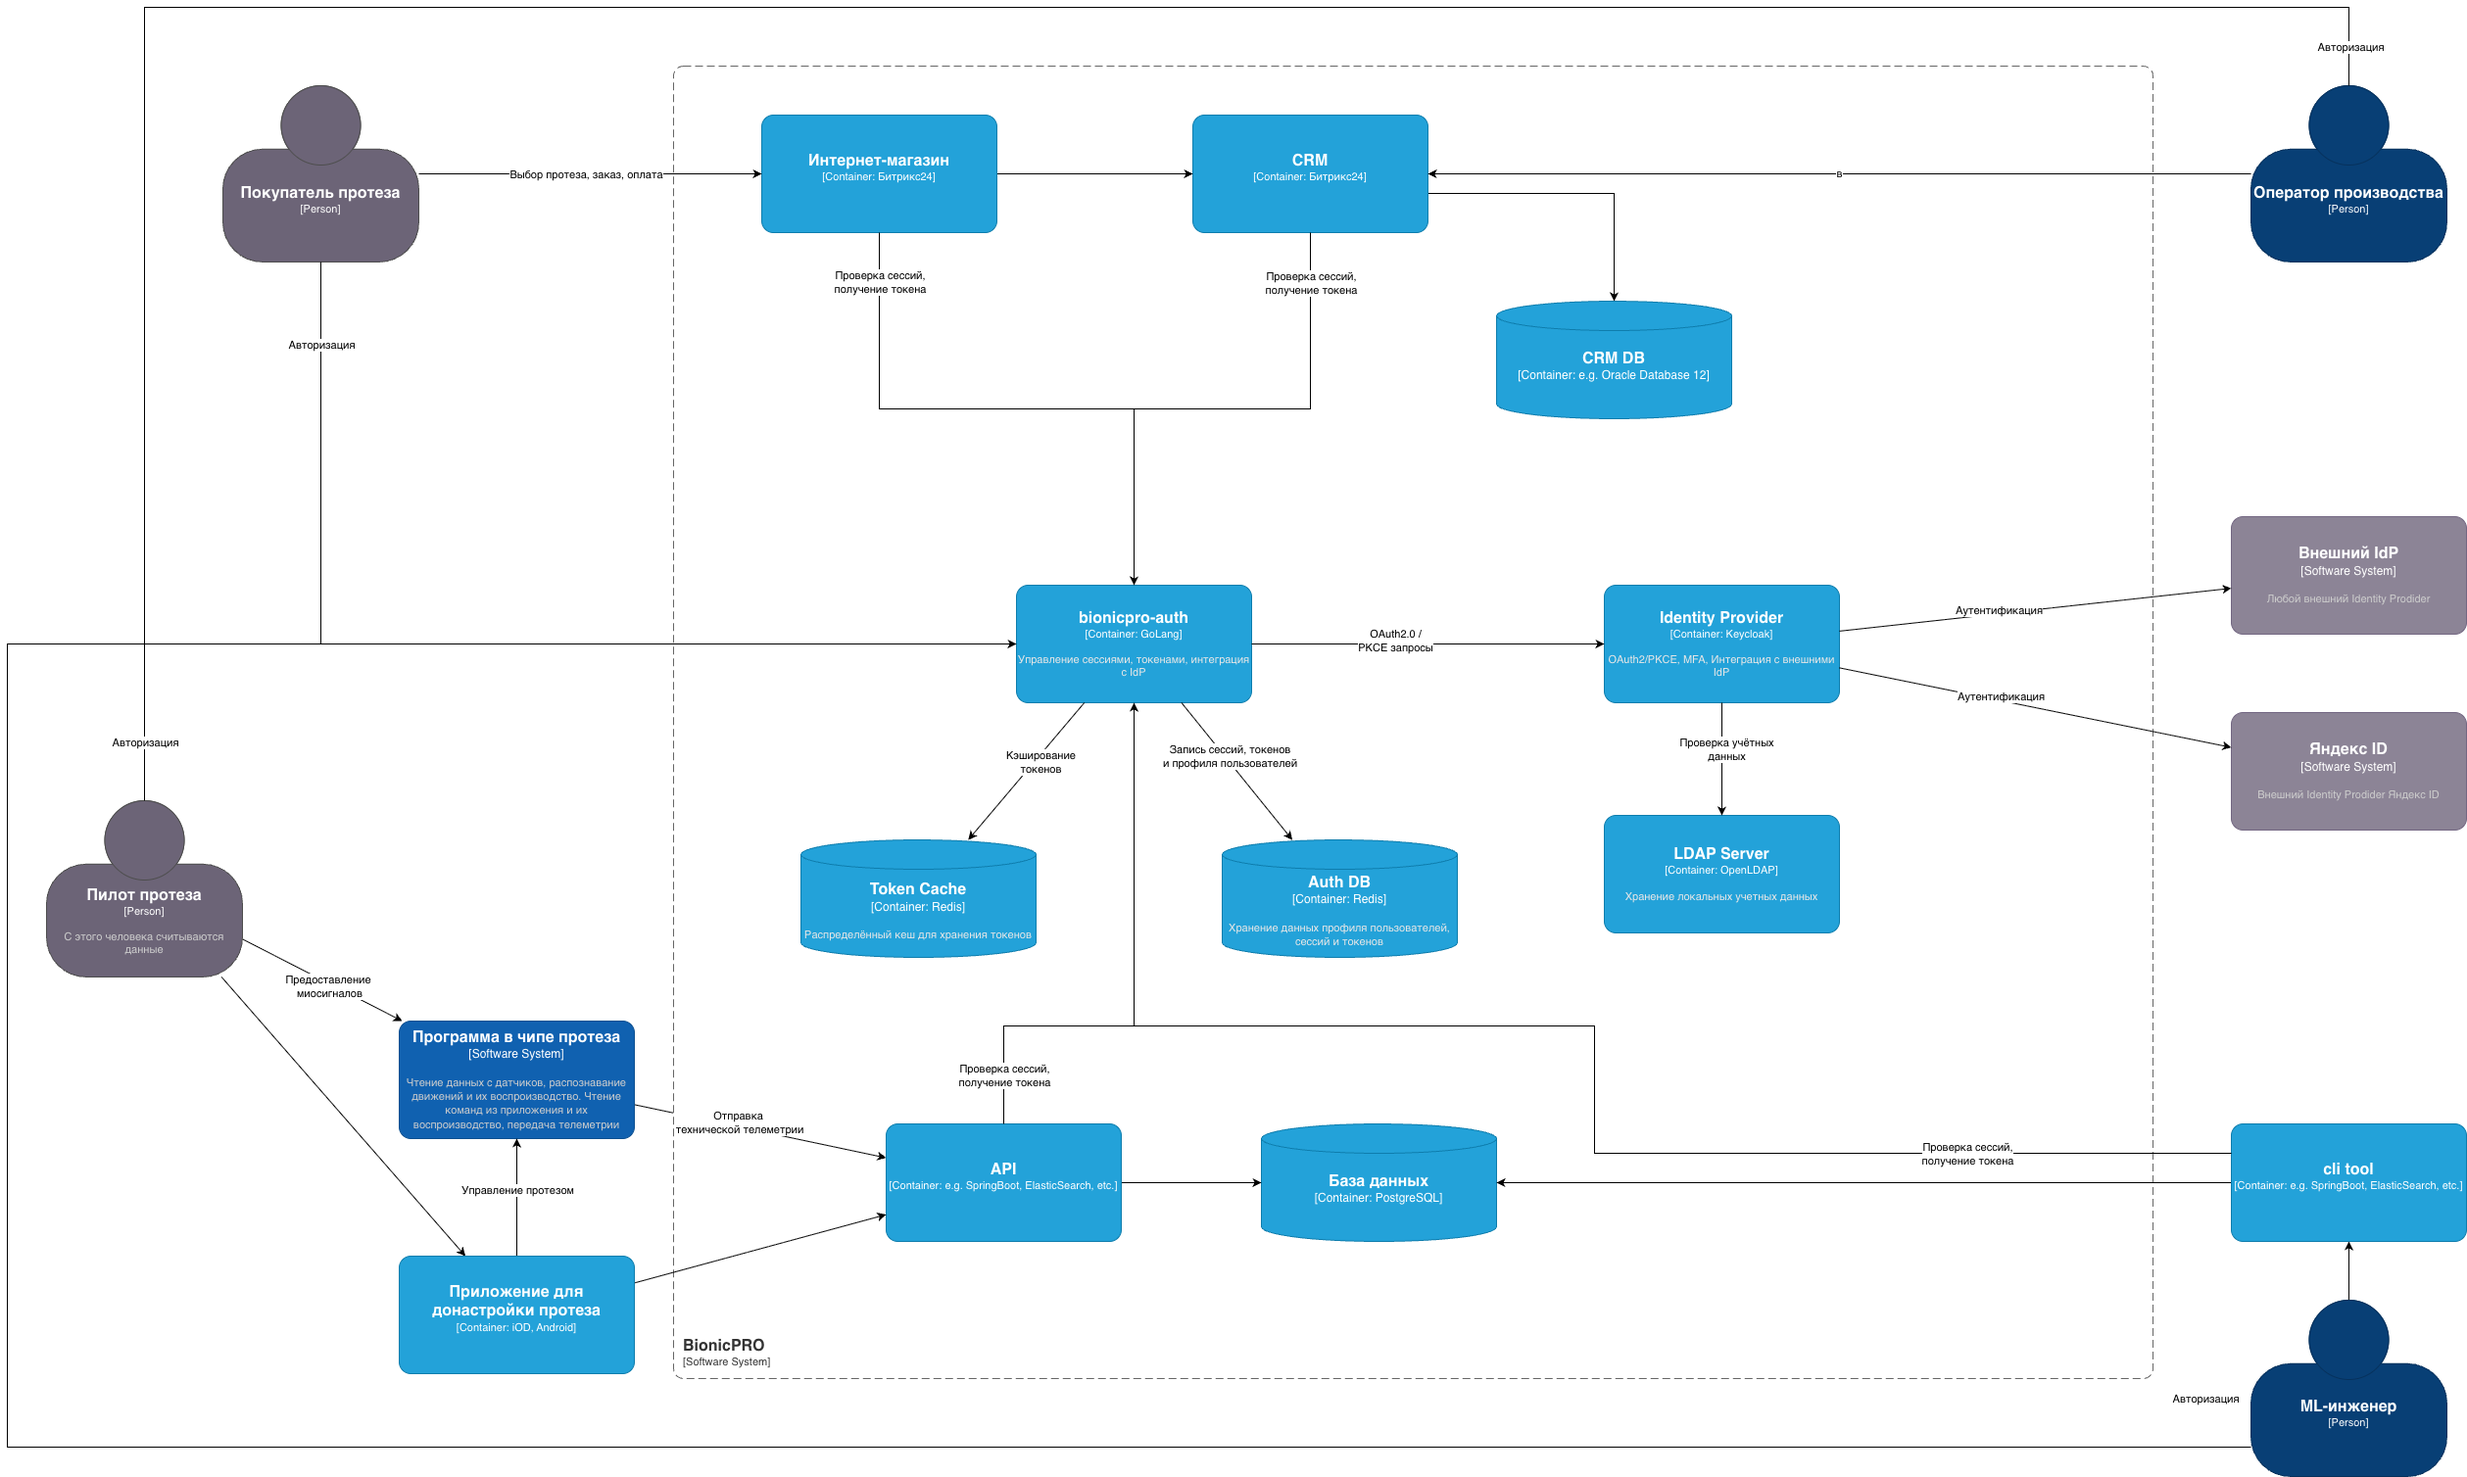
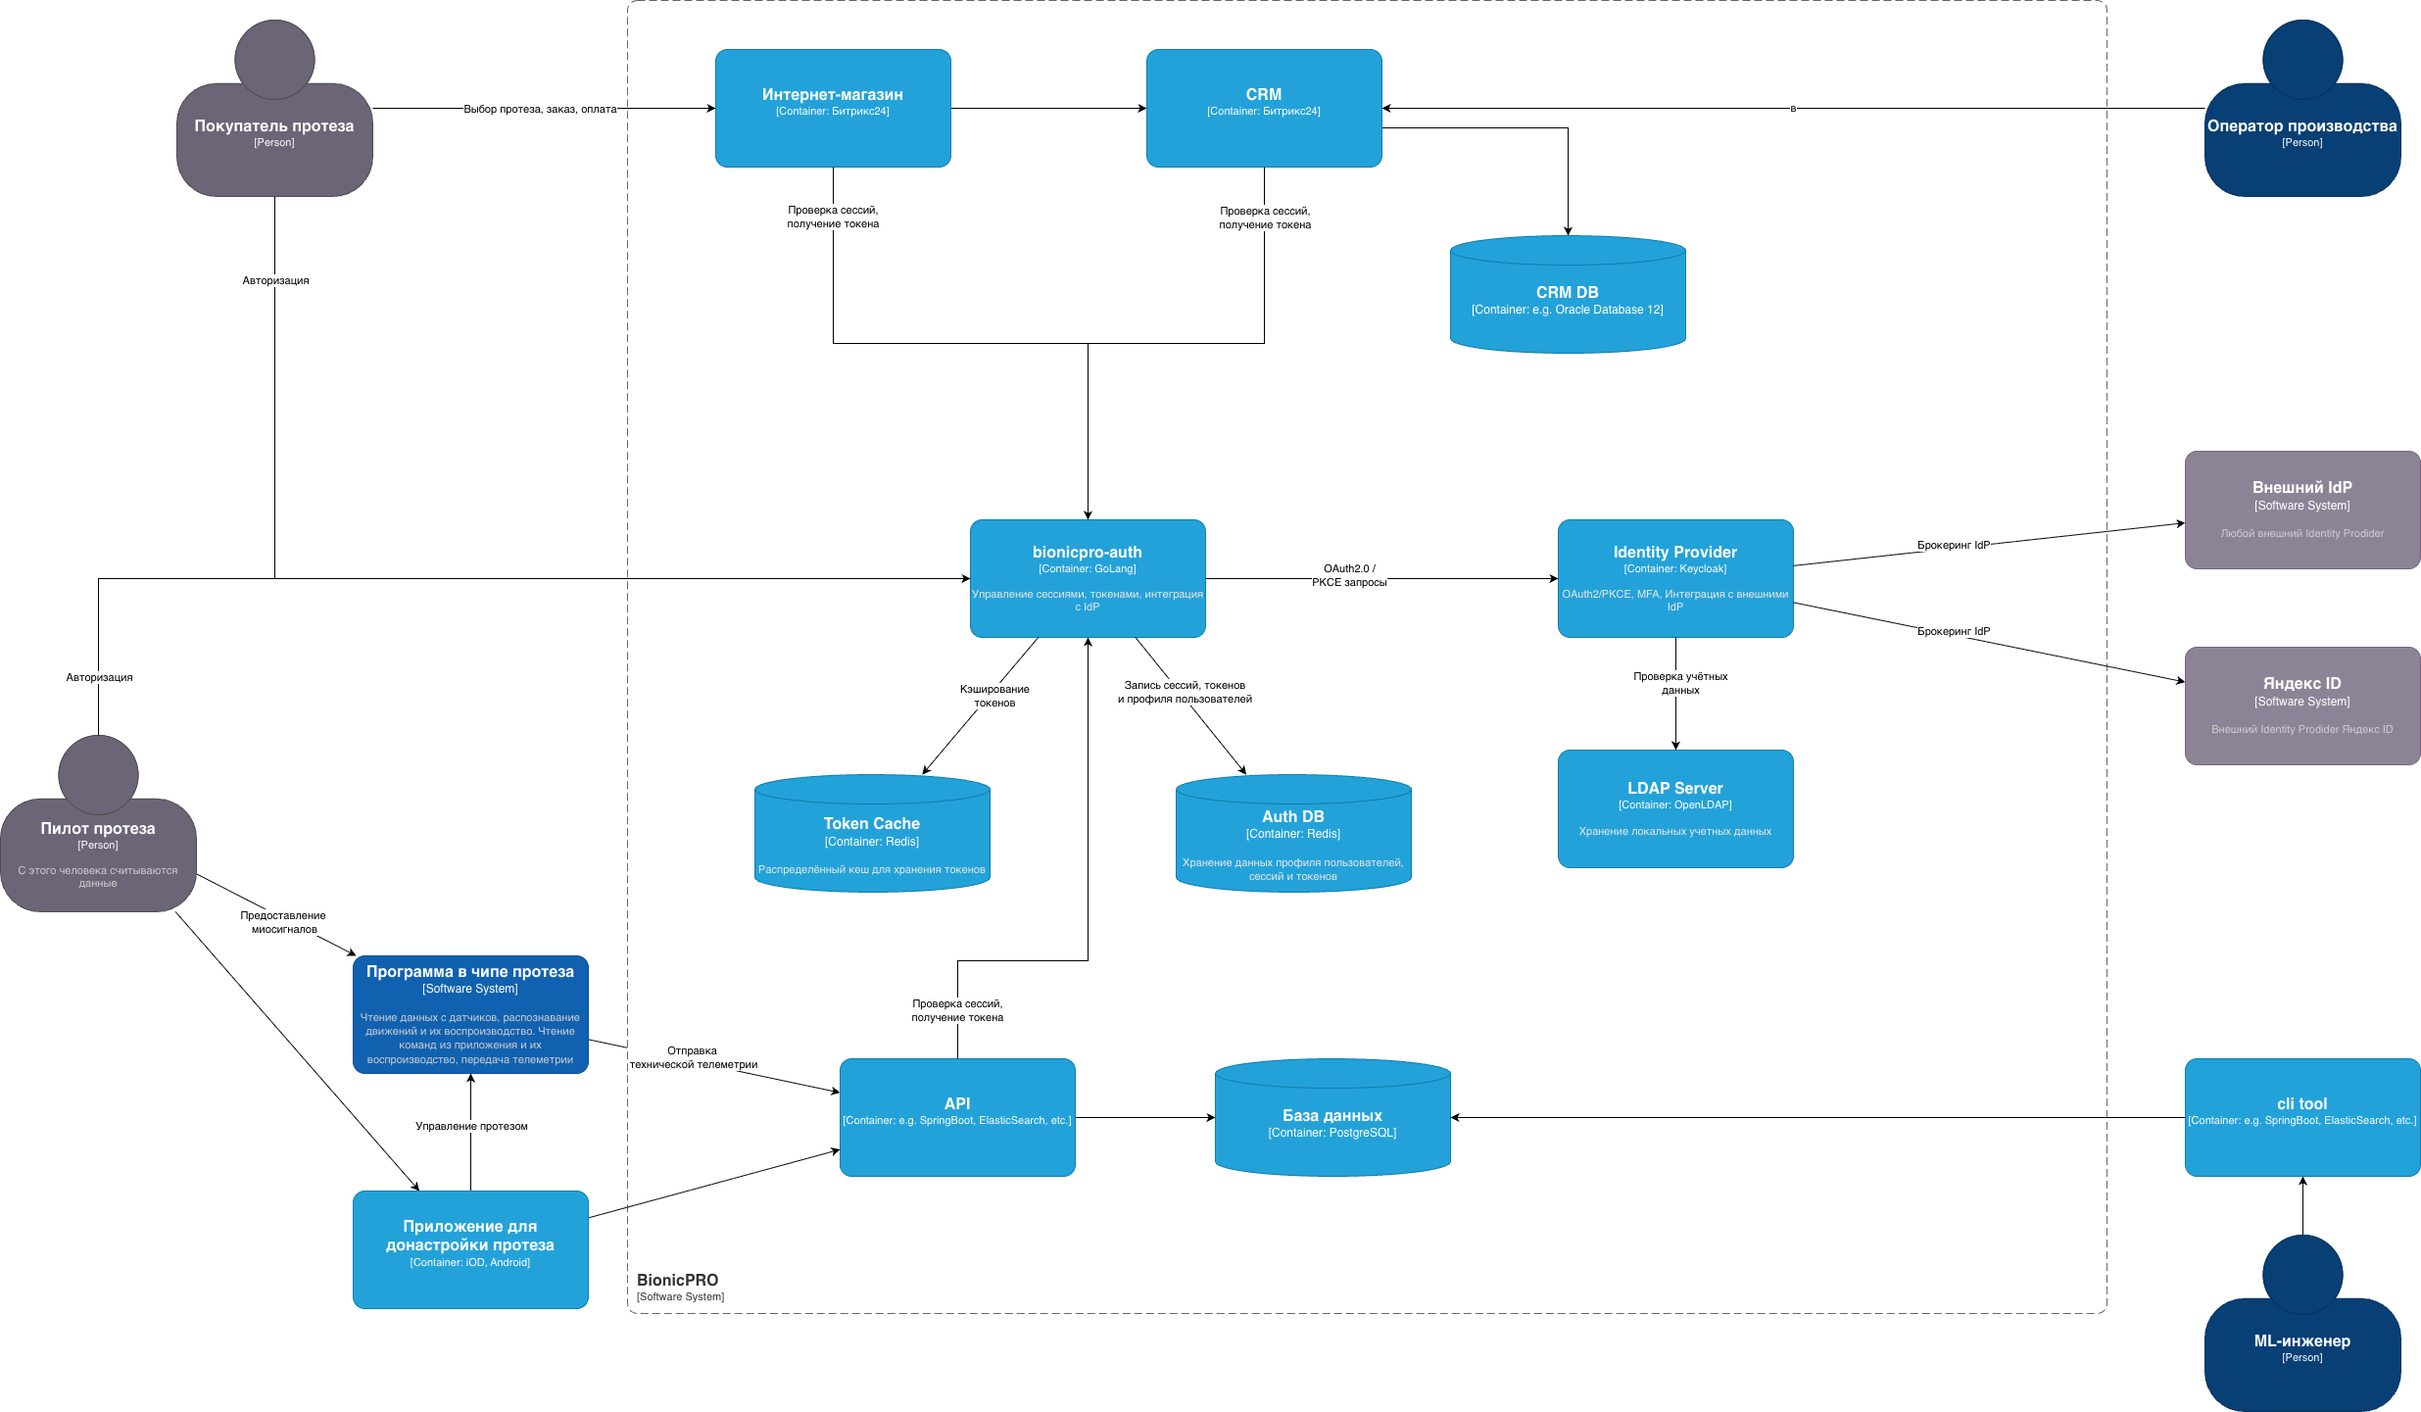
Уточнения в описании

diff --git a/README.md b/README.md
@@ -14,6 +14,7 @@
 - Поддержка внешних удостоверяющих служб через брокеринг.
 
 Диаграмма C4:
+[BionicPRO_C4_model](./diagram/BionicPRO_C4_model_task1_tobe.png)
 
 ![BionicPRO_C4_model](./diagram/BionicPRO_C4_model_task1_tobe.png)
 
@@ -202,8 +203,12 @@
 
 ### Архитектура
 
-[BionicPRO_C4_model_task2_tobe](./asset/diagram/BionicPRO_C4_model_task2_tobe.drawio)
-![BionicPRO_C4_model_task2_tobe](./asset/diagram/BionicPRO_C4_model_task2_tobe.png)
+В реализации сервиса Отчётов принято решение использовать BFF-подход, при котором сервис авторизации `BionicPRO-Auth` выступает в качестве gateway и проксирует запросы к `Reports-Backend`. Кроме того, `BionicPRO-Auth` получает id сессии от фронтенда, находит соответствие с токеном и добавляет его в авторизацию. 
+
+Диаграмма C4: 
+[BionicPRO_C4_model_task2_tobe](./diagram/BionicPRO_C4_model_task2_tobe.drawio)
+
+![BionicPRO_C4_model_task2_tobe](./diagram/BionicPRO_C4_model_task2_tobe.png)
 
 Компоненты:
 
